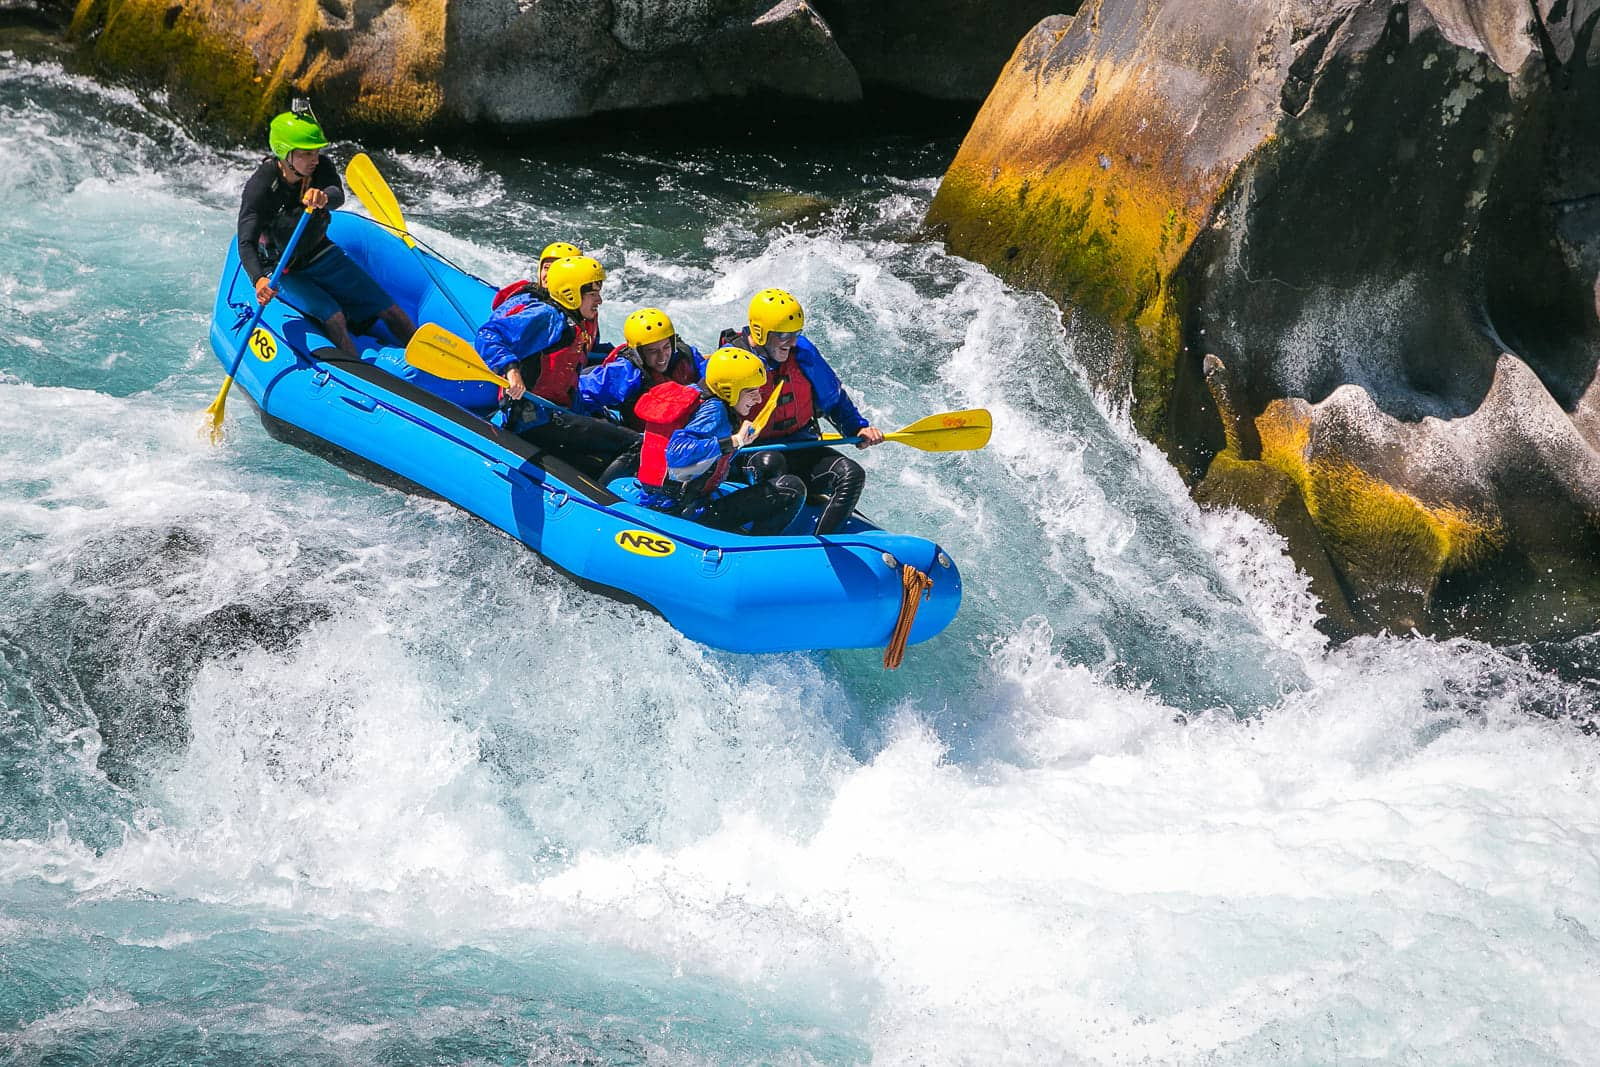
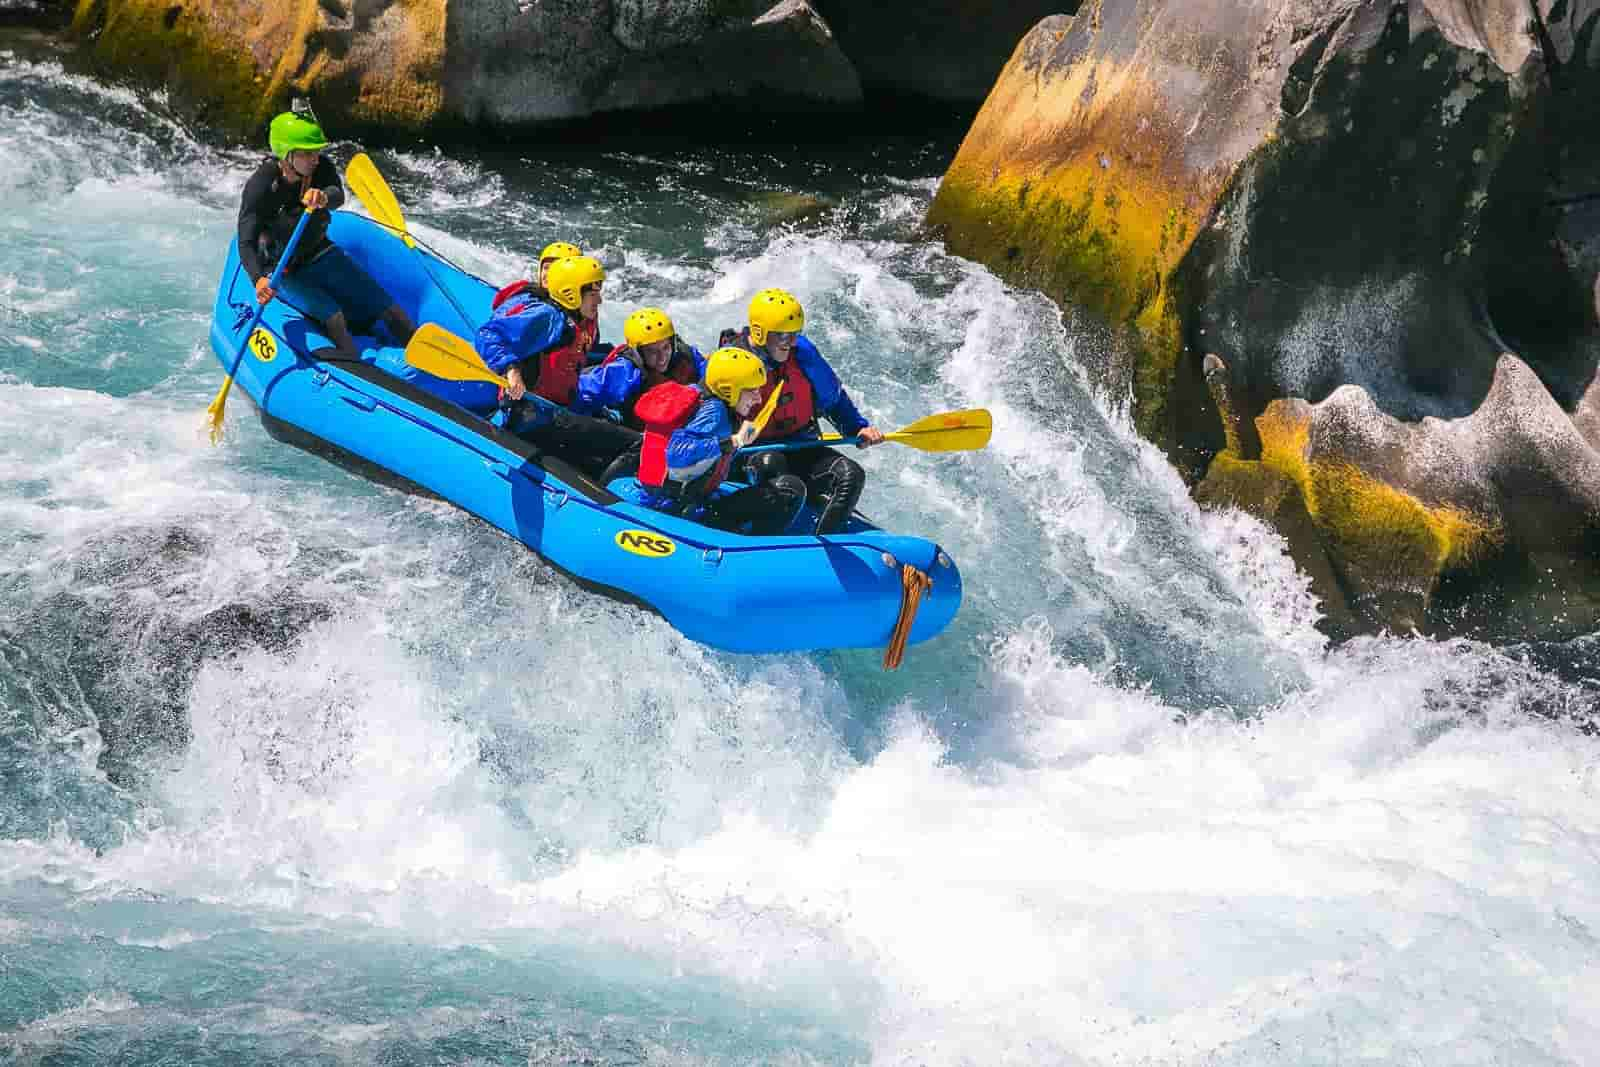
last changes images

diff --git a/wwr/about.html b/wwr/about.html
@@ -69,11 +69,11 @@
                     <figcaption>Los Dientes del Diablo</figcaption>
                 </figure>
                 <figure>
-                    <img src="images/adventure2.webp" alt="Big Mallard">
+                    <img src="images/adventure2.jpg" alt="Big Mallard">
                     <figcaption>Big Mallard</figcaption>
                 </figure>
                 <figure>
-                    <img src="images/adventure3.jpeg" alt="Half Day Adventure">
+                    <img src="images/adventure3.jpg" alt="Half Day Adventure">
                     <figcaption>Half Day Adventure</figcaption>
                 </figure>
                 <figure>
